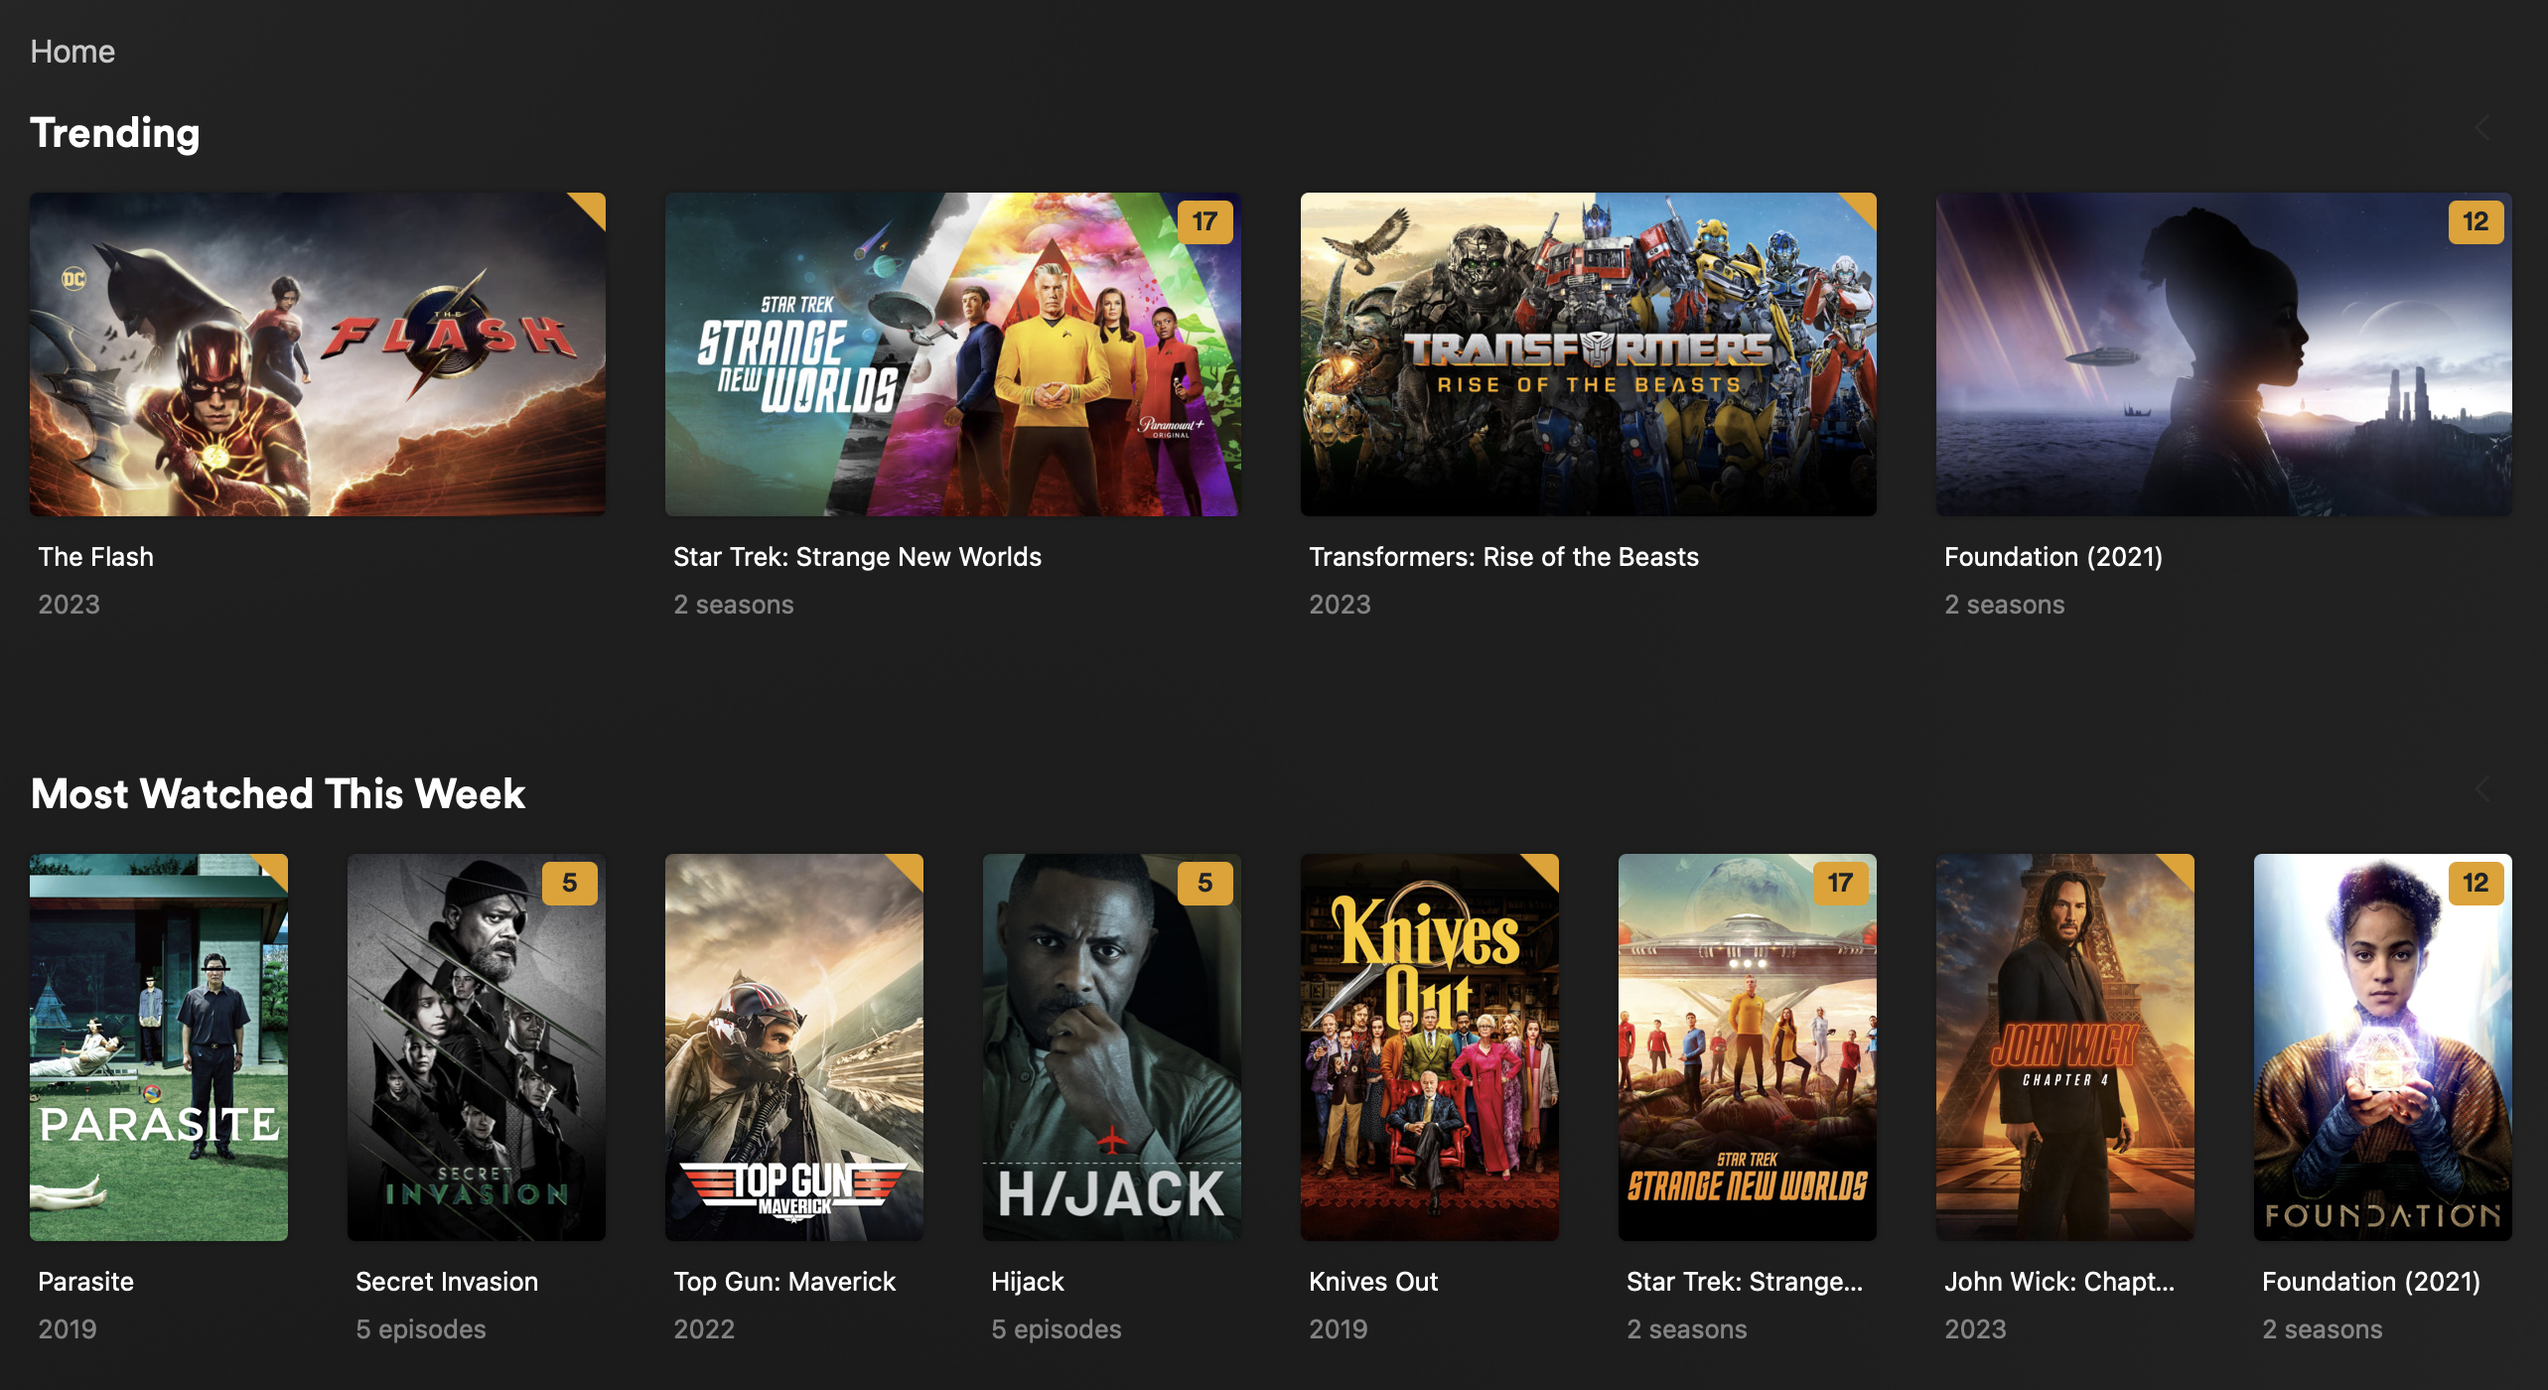
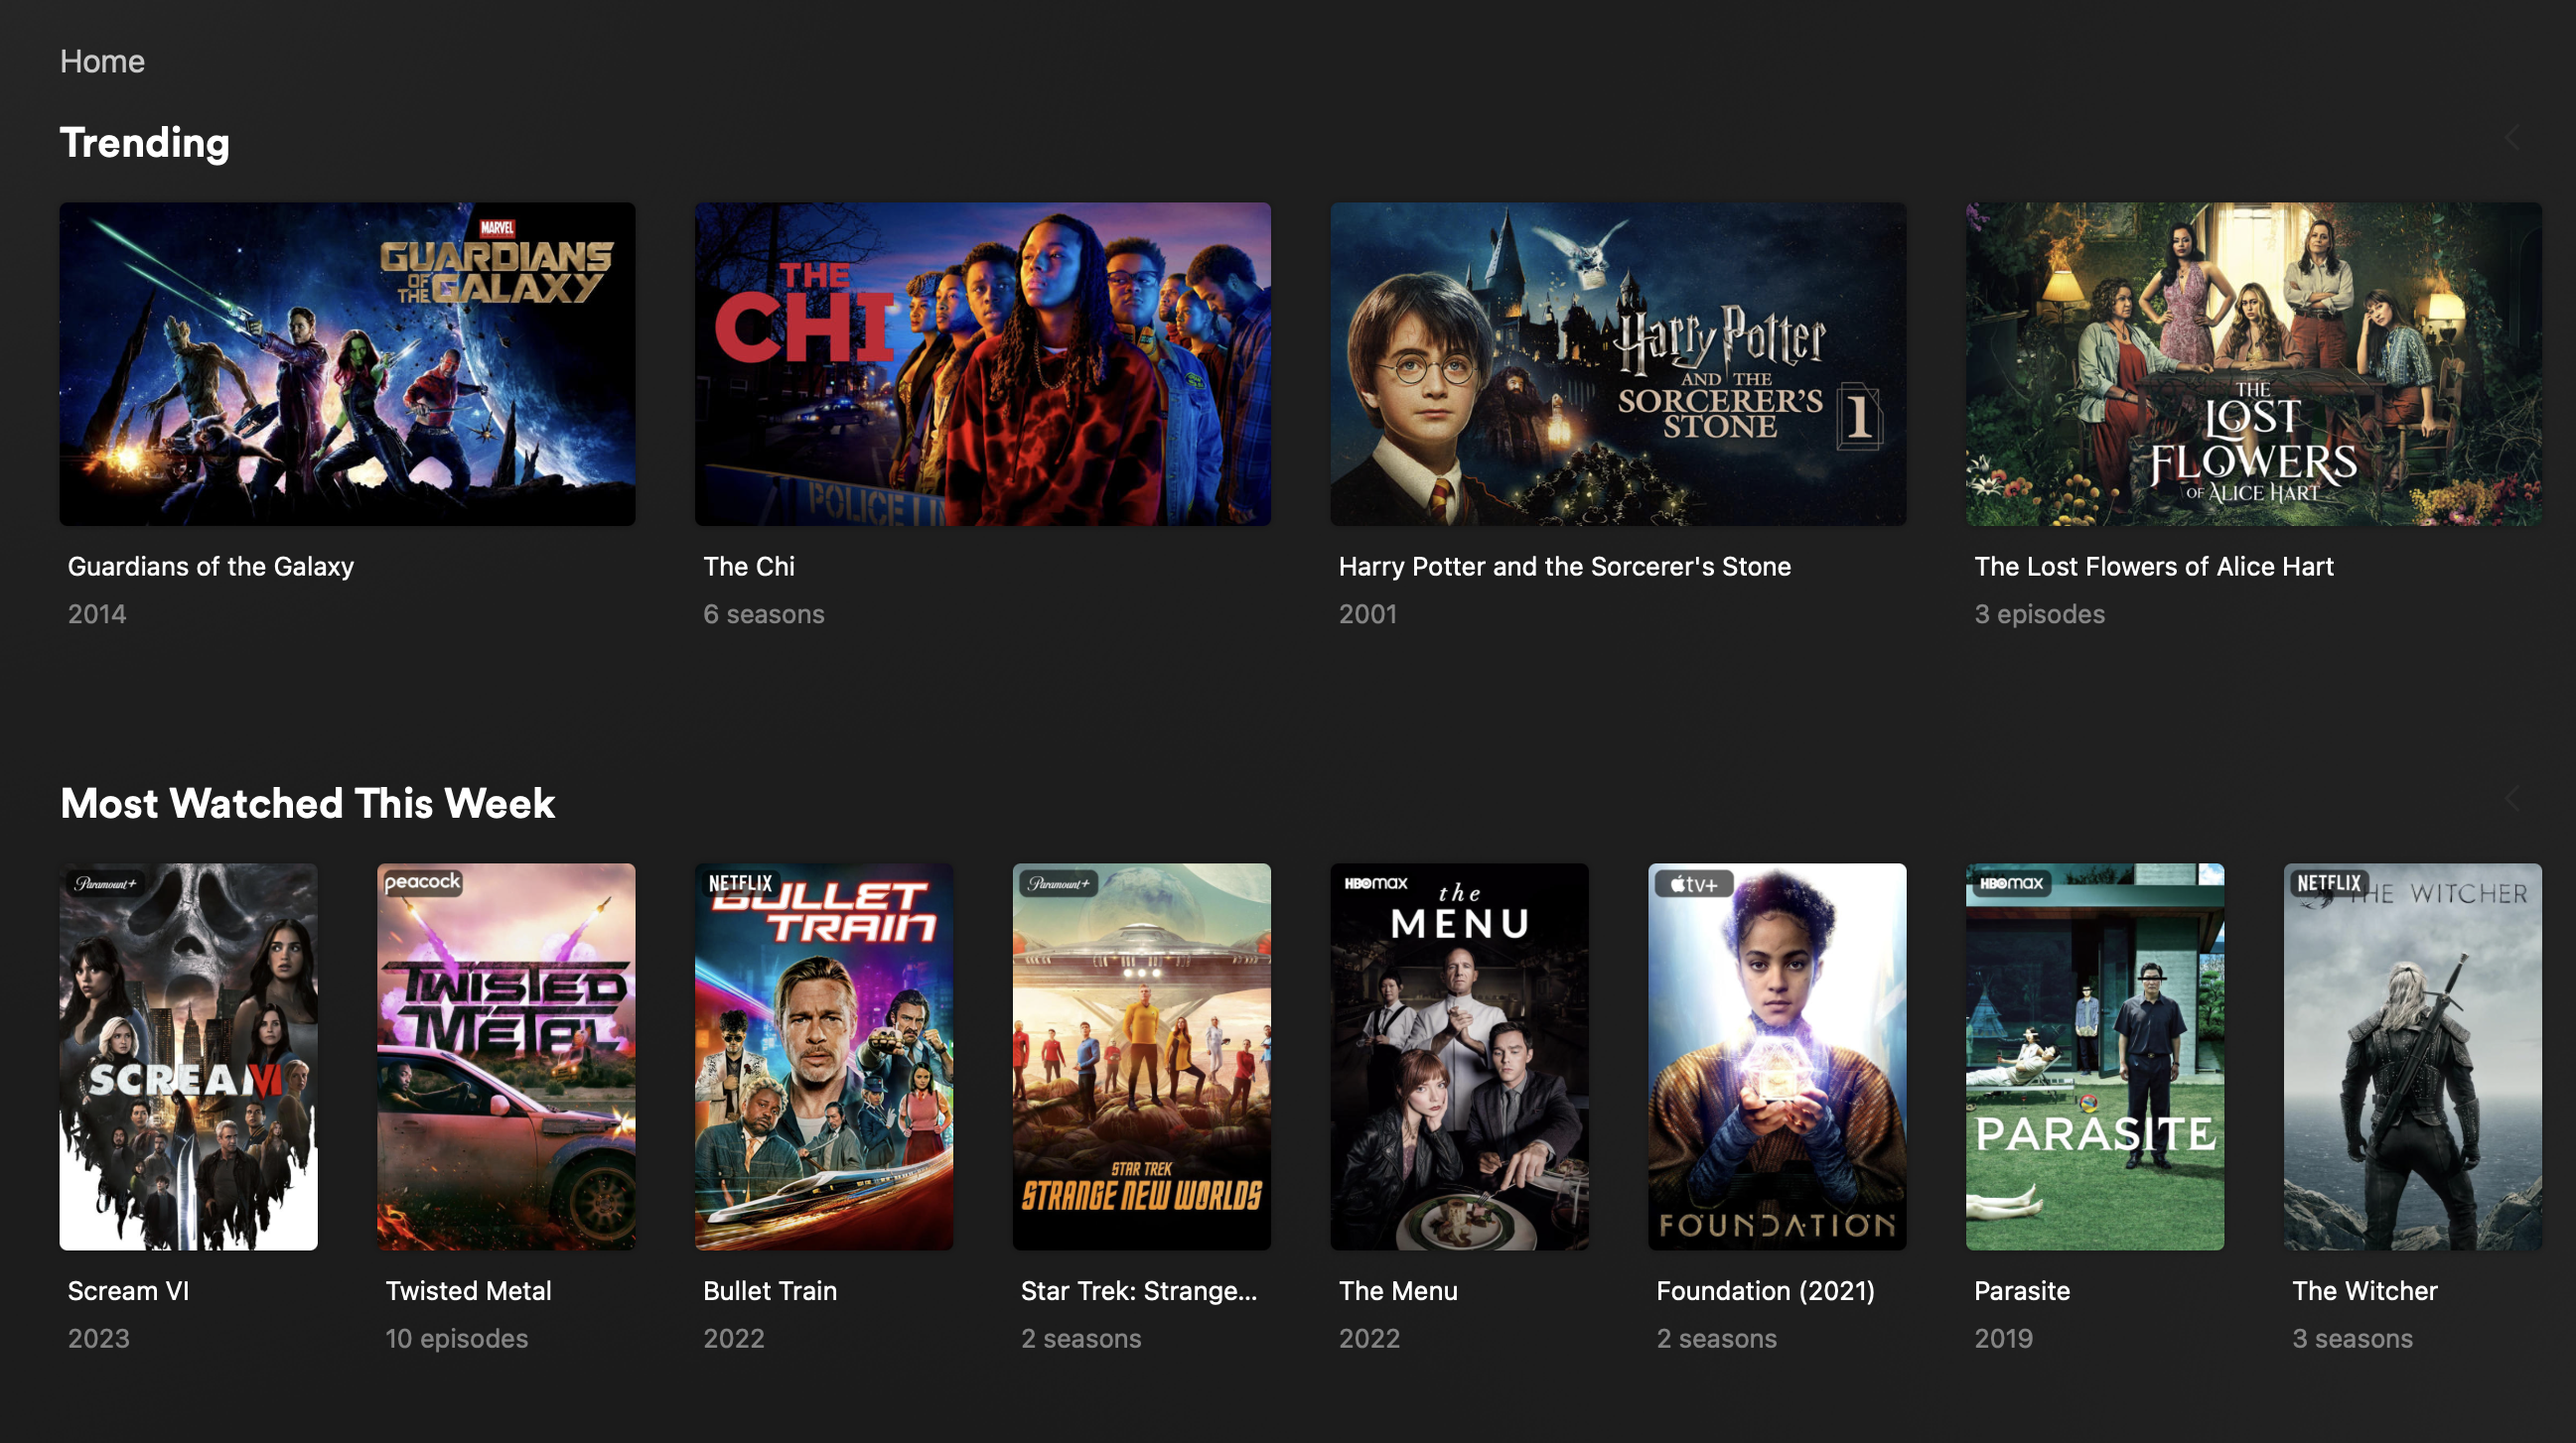
feat: Allow disabling the user state

diff --git a/src/routes.rs b/src/routes.rs
@@ -149,6 +149,7 @@ pub async fn get_hubs_promoted(req: &mut Request, res: &mut Response) {
             limit: params.clone().count.unwrap(),
         })
         .with_transform(TMDBArtTransform)
+        .with_transform(UserStateTransform)
         .apply_to(&mut container)
         .await;
     res.render(container);
@@ -195,6 +196,7 @@ pub async fn get_hubs_sections(req: &mut Request, res: &mut Response) {
             limit: params.clone().count.unwrap(),
         })
         .with_transform(TMDBArtTransform)
+        .with_transform(UserStateTransform)
         // .with_filter(CollectionHubPermissionFilter)
         .with_filter(WatchedFilter)
         .apply_to(&mut container)
@@ -238,6 +240,7 @@ pub async fn get_collections_children(
             limit,
         })
         .with_transform(TMDBArtTransform)
+        .with_transform(UserStateTransform)
         .apply_to(&mut container)
         .await;
     res.render(container); // TODO: FIx XML

diff --git a/src/transform.rs b/src/transform.rs
@@ -679,6 +679,31 @@ impl Transform for HubSectionKeyTransform {
     }
 }
 
+#[derive(Default, Debug)]
+pub struct UserStateTransform;
+
+#[async_trait]
+impl Transform for UserStateTransform {
+    async fn transform_metadata(
+        &self,
+        item: &mut MetaData,
+        plex_client: PlexClient,
+        options: PlexParams,
+    ) {
+        let config: Config = Config::figment().extract().unwrap();
+        if !config.disable_user_state {
+            return
+        }
+        if item.is_hub() {
+            for child in item.children_mut() {
+                child.user_state = Some(false);
+            }
+        } else {
+            item.user_state = Some(false);
+        }
+    }
+}
+
 // #[derive(Default)]
 // pub struct WatchedFilter;
 

diff --git a/src/models.rs b/src/models.rs
@@ -352,6 +352,10 @@ pub struct MetaData {
     #[serde(rename = "Guid", default, skip_serializing_if = "Vec::is_empty")]
     #[yaserde(rename = "Guid", default, child)]
     pub guids: Vec<Guid>,
+    // #[yaserde(attribute)]
+    // #[yaserde(rename = "userState")]
+    #[serde(skip_serializing_if = "Option::is_none")]
+    pub user_state: Option<bool>,
 }
 
 pub(crate) fn deserialize_option_string_from_number<'de, D>(

diff --git a/src/config.rs b/src/config.rs
@@ -30,6 +30,11 @@ pub struct Config {
     )]
     pub enable_console: bool,
     pub tmdb_api_key: Option<String>,
+    #[serde(
+        default = "default_as_false",
+        deserialize_with = "figment::util::bool_from_str_or_int"
+    )]
+    pub disable_user_state: bool,
 }
 
 fn default_cache_ttl() -> u64 {

diff --git a/README.md b/README.md
@@ -10,6 +10,7 @@ Remix your plex recommendations.
 - Remove watched items from recommendations.
 - Choose between styles, shelf (default) or hero.
 - Auto load tmdb artwork for hero styles.
+- Disable user state: meaning the unwatched and episode labels are removed from the artwork.
 - Works on every client/app not only plex web!
 - Plays nice with PMM (and without).
 
@@ -71,6 +72,7 @@ Settings are set via [environment variables](https://kinsta.com/knowledgebase/wh
 | REPLEX_HOST              |        	| Plex target host to proxy                                             	  |
 | REPLEX_INCLUDE_WATCHED   | false    | If set to false, hide watched items.                                      |
 | REPLEX_CACHE_TTL         | 300    	| Time to live for caches in seconds. Set to 0 to disable            	      |
+| REPLEX_DISABLE_USER_STATE| false    | Disable user state, meaning the unwatched and episode labels are removed  |
 | REPLEX_TMDB_API_KEY      |     	    | Enables tmdb artwork for hero hubs instead of plex background artwork     |
 | REPLEX_SSL_ENABLE        | false    | Enable automatic SSL generation. http will be disabled                    |
 |                          |          | (stored in /data/acme/letsencrypt so make sure to mount a volume)         |
